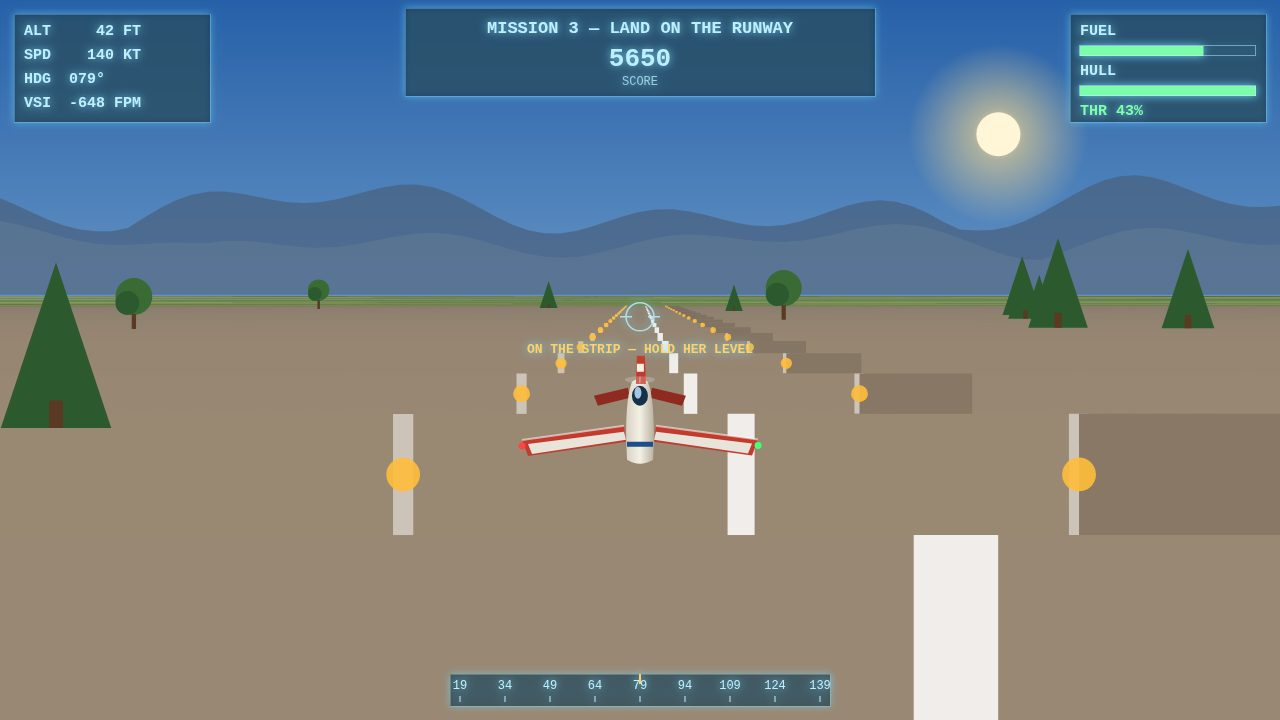
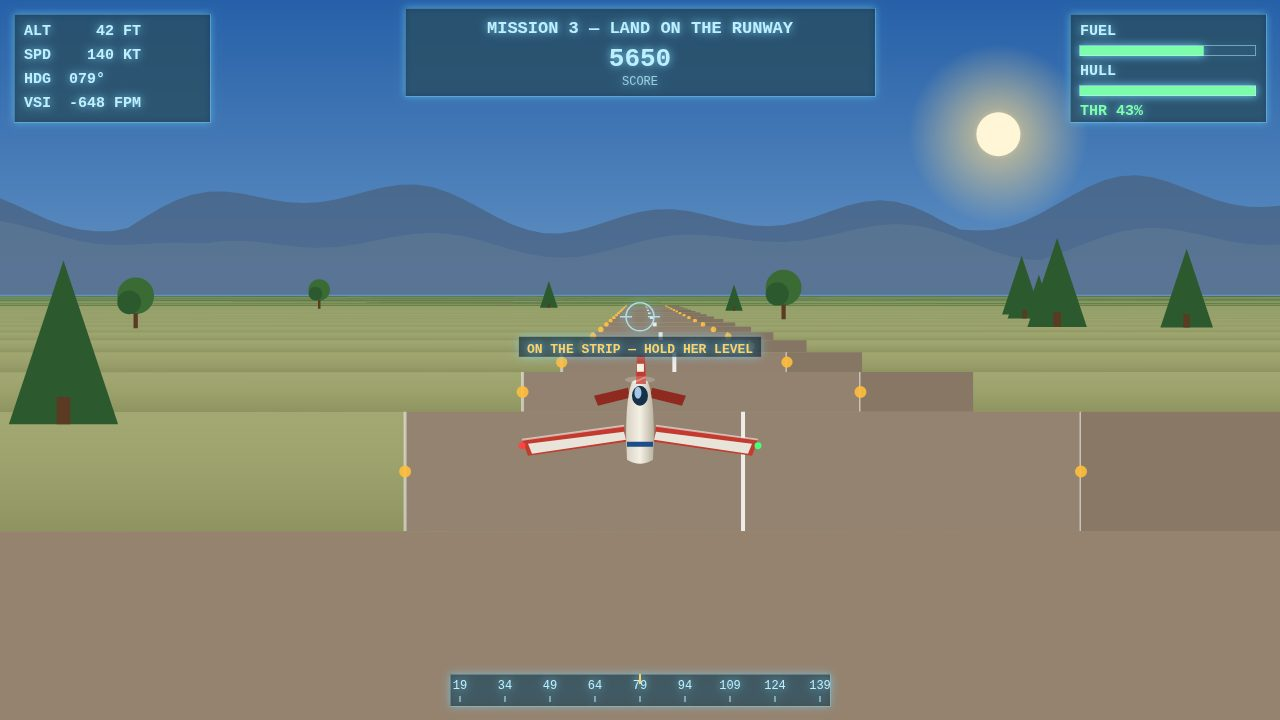
Sky Courier round 2: ground texture, runway rework, zone beams, LEGEND tier, fairer drop run
- Ground: per-band shading + plough furrows so fields read as terrain, not flat paint
- Runway: grass airfield with a proper asphalt strip, thin dashed centreline
  (widths clamped — the old unclamped lines became giant white blocks up close),
  thin edge lines, taxiway, amber edge lights
- Drop zones: vertical light beams so targets read from far away
- Clouds get shaded undersides; HUD target labels get a dark backing pill
- Drop run fairness: first zone 700 m past the rings (was 600) and zone
  steps +-80 m (was +-110) — the first zone's release window used to pass
  while the plane was still descending; staged scores now 6925-7051
  (was 5825-7051), every seed 5/5 zones
- New LEGEND OF THE SKIES rating at 6500+; ?shot=win stages the win screen
- Verified: 20 seeds deterministic, fairness (no-input/dive/climb crash, 0),
  5 page loads zero console errors, byte-identical main.ts outputs,
  dossier 457,526 bytes (< 1.5 MiB), no external URLs

diff --git a/game/src/render.js b/game/src/render.js
@@ -1,7 +1,7 @@
 // Sky Courier — everything the eye sees: pseudo-3D chase view over
 // rolling terrain, the aircraft, the rings and the runway, then the HUD
 // instruments and the screen overlays. All drawing is plain 2D canvas.
-import { SEG_LEN, VIEW_DIST, RUNWAY, MISSION_Z, RING_COUNT, RATING_ACE, RATING_SKILLED } from './config.js';
+import { SEG_LEN, VIEW_DIST, RUNWAY, MISSION_Z, RING_COUNT, RATING_LEGEND, RATING_ACE, RATING_SKILLED } from './config.js';
 
 export const SCREEN_TITLE = 0;
 export const SCREEN_BRIEF = 1;
@@ -109,7 +109,6 @@ export function createRenderer(canvas) {
   }
 
   function drawClouds(w, horizonY, camZ, camX, clouds, camDepth) {
-    ctx.fillStyle = 'rgba(255,255,255,0.85)';
     for (const c of clouds) {
       const d = c.z - camZ;
       if (d < 40 || d > VIEW_DIST) continue;
@@ -120,6 +119,13 @@ export function createRenderer(canvas) {
       // Keep the top strip clear so bright clouds never sit behind the
       // mission banner and wash out its text.
       if (sy - s * 0.32 < 110) continue;
+      // Shaded underside first, so the puff reads as a volume rather
+      // than a flat white sticker.
+      ctx.fillStyle = 'rgba(178,196,222,0.75)';
+      ctx.beginPath();
+      ctx.ellipse(sx, sy + s * 0.14, s * 0.95, s * 0.28, 0, 0, Math.PI * 2);
+      ctx.fill();
+      ctx.fillStyle = 'rgba(255,255,255,0.85)';
       ctx.beginPath();
       ctx.ellipse(sx, sy, s, s * 0.32, 0, 0, Math.PI * 2);
       ctx.ellipse(sx - s * 0.5, sy + s * 0.08, s * 0.6, s * 0.26, 0, 0, Math.PI * 2);
@@ -305,18 +311,26 @@ export function createRenderer(canvas) {
     const target = mission === 1 ? world.nextRing() : mission === 2 ? world.nextZone() : null;
     if (target) {
       const dist = Math.max(0, Math.round(target.z - state.z));
+      const label = mission === 1 ? `NEXT RING ${dist} m` : `NEXT ZONE ${dist} m`;
       ctx.textAlign = 'center';
       ctx.font = 'bold 13px ui-monospace, Menlo, monospace';
+      const tw = ctx.measureText(label).width;
+      ctx.fillStyle = 'rgba(8,18,30,0.6)';
+      ctx.fillRect(w / 2 - tw / 2 - 8, h * 0.44 + 20, tw + 16, 20);
       ctx.fillStyle = '#ffd166';
-      ctx.fillText(mission === 1 ? `NEXT RING ${dist} m` : `NEXT ZONE ${dist} m`, w / 2, h * 0.44 + 26);
+      ctx.fillText(label, w / 2, h * 0.44 + 26);
       ctx.textAlign = 'left';
     }
     if (mission === 3 && !state.landed) {
       const dist = Math.max(0, Math.round(RUNWAY.z0 - state.z));
+      const label3 = state.z < RUNWAY.z0 ? `RUNWAY ${dist} m — SLOW DOWN, FLARE GENTLY` : 'ON THE STRIP — HOLD HER LEVEL';
       ctx.textAlign = 'center';
       ctx.font = 'bold 13px ui-monospace, Menlo, monospace';
+      const tw3 = ctx.measureText(label3).width;
+      ctx.fillStyle = 'rgba(8,18,30,0.6)';
+      ctx.fillRect(w / 2 - tw3 / 2 - 8, h * 0.44 + 20, tw3 + 16, 20);
       ctx.fillStyle = '#ffd166';
-      ctx.fillText(state.z < RUNWAY.z0 ? `RUNWAY ${dist} m — SLOW DOWN, FLARE GENTLY` : 'ON THE STRIP — HOLD HER LEVEL', w / 2, h * 0.44 + 26);
+      ctx.fillText(label3, w / 2, h * 0.44 + 26);
       ctx.textAlign = 'left';
     }
     // Flash message.
@@ -390,9 +404,29 @@ export function createRenderer(canvas) {
         // A cross-road near the village, drawn as a full-width grey band.
         const crossRoad = !onRunway && z >= 5740 && z <= 5770;
         const field = FIELDS[Math.floor(hash(i + Math.floor(camZ / SEG_LEN)) * FIELDS.length)];
-        const col = onRunway ? [96, 96, 100] : crossRoad ? ROAD_COL : field;
+        // On the airfield the band is grass; the strip itself is drawn
+        // separately below, so the runway reads as a strip in a field
+        // instead of the whole world turning grey.
+        const col = onRunway ? [104, 140, 86] : crossRoad ? ROAD_COL : field;
         ctx.fillStyle = mix3(col, SKY_HORIZON, haze * 0.7);
         ctx.fillRect(-40, topY, w + 80, bandH);
+        // Shade each band top-to-bottom so the ground has depth instead
+        // of reading as flat stacked paint.
+        const bg = ctx.createLinearGradient(0, topY, 0, topY + bandH);
+        bg.addColorStop(0, 'rgba(255,255,255,0.05)');
+        bg.addColorStop(1, 'rgba(0,0,0,0.10)');
+        ctx.fillStyle = bg;
+        ctx.fillRect(-40, topY, w + 80, bandH);
+        // Plough furrows: short dashes across the field, so the ground
+        // reads as worked farmland instead of flat paint.
+        if (!onRunway && !crossRoad && bandH > 4) {
+          ctx.fillStyle = mix3([60, 100, 58], SKY_HORIZON, haze * 0.7);
+          for (let k = 0; k < 3; k += 1) {
+            const fx = hash(i * 31 + k * 17 + 2) * w;
+            const fl = w * (0.05 + hash(i * 13 + k * 7) * 0.09);
+            ctx.fillRect(fx, topY + bandH * (0.25 + k * 0.25), fl, Math.max(1, bandH * 0.12));
+          }
+        }
         // The river winds across the farmland (ends before the airfield).
         if (!onRunway && !crossRoad && z < 5600) {
           const rx = w / 2 + (camDepth * (world.riverX(z) - camX)) / d;
@@ -421,18 +455,29 @@ export function createRenderer(canvas) {
           ctx.fillStyle = mix3([52, 96, 52], SKY_HORIZON, haze * 0.7);
           ctx.fillRect(px, topY, w * 0.22, bandH);
         }
-        // Runway centreline dashes.
+        // The runway: asphalt strip on the grass, thin dashed centreline,
+        // edge lines, taxiway and amber edge lights. Line widths are
+        // clamped — the old unclamped widths turned into giant white
+        // blocks when the camera got low over the strip.
         if (onRunway) {
           const cx = w / 2 - (camDepth * camX) / d;
           const half = (camDepth * RUNWAY.halfWidth) / d;
-          ctx.strokeStyle = 'rgba(255,255,255,0.85)';
-          ctx.lineWidth = Math.max(1, half * 0.08);
-          ctx.beginPath();
-          ctx.moveTo(cx, y);
-          ctx.lineTo(cx, prevY);
-          ctx.stroke();
+          // Asphalt strip.
+          ctx.fillStyle = mix3([88, 88, 96], SKY_HORIZON, haze * 0.7);
+          ctx.fillRect(cx - half, topY, half * 2, bandH);
+          // Centreline dashes: 20 m of paint, 30 m of gap, in world space.
+          const zm = z - SEG_LEN / 2;
+          if ((((zm % 50) + 50) % 50) < 20) {
+            ctx.strokeStyle = 'rgba(255,255,255,0.85)';
+            ctx.lineWidth = Math.min(4, Math.max(1, half * 0.08));
+            ctx.beginPath();
+            ctx.moveTo(cx, y);
+            ctx.lineTo(cx, prevY);
+            ctx.stroke();
+          }
+          // Edge lines, thin.
           ctx.strokeStyle = 'rgba(255,255,255,0.5)';
-          ctx.lineWidth = Math.max(1, half * 0.06);
+          ctx.lineWidth = Math.min(3, Math.max(1, half * 0.06));
           ctx.beginPath();
           ctx.moveTo(cx - half, y);
           ctx.lineTo(cx - half, prevY);
@@ -444,7 +489,7 @@ export function createRenderer(canvas) {
           ctx.fillStyle = mix3([70, 70, 78], SKY_HORIZON, haze * 0.7);
           ctx.fillRect(cx + half, topY, taxiW, bandH);
           const midY = (y + prevY) / 2;
-          const lr = Math.max(1, half * 0.05);
+          const lr = Math.min(6, Math.max(1, half * 0.05));
           ctx.fillStyle = 'rgba(255,190,60,0.9)';
           ctx.beginPath();
           ctx.arc(cx - half, midY, lr, 0, Math.PI * 2);
@@ -499,6 +544,17 @@ export function createRenderer(canvas) {
         const gy = horizonY + (camDepth * (camAlt - world.groundAt(zn.z))) / d;
         const rx = (camDepth * zn.r) / d;
         const ry = Math.max(2, rx * 0.16);
+        // Unhit zones get a vertical light beam, so the target reads
+        // from far away instead of being a faint ellipse on the ground.
+        if (!zn.hit) {
+          const beamTop = Math.max(horizonY - 180, horizonY + (camDepth * (camAlt - (world.groundAt(zn.z) + 150))) / d);
+          const bw = Math.min(12, Math.max(2, rx * 0.18));
+          const bg2 = ctx.createLinearGradient(0, gy, 0, beamTop);
+          bg2.addColorStop(0, `rgba(255,190,60,${0.35 + 0.15 * Math.sin(state.time * 4)})`);
+          bg2.addColorStop(1, 'rgba(255,190,60,0)');
+          ctx.fillStyle = bg2;
+          ctx.fillRect(sx - bw / 2, beamTop, bw, gy - beamTop);
+        }
         ctx.fillStyle = zn.hit ? 'rgba(80,255,140,0.5)' : `rgba(255,190,60,${0.45 + 0.2 * Math.sin(state.time * 4)})`;
         ctx.beginPath();
         ctx.ellipse(sx, gy, rx, ry, 0, 0, Math.PI * 2);
@@ -722,7 +778,7 @@ export function createRenderer(canvas) {
         'Press Space for the next sortie',
       ], '#7dffa8');
     } else if (screen === SCREEN_WIN) {
-      const rating = state.score >= RATING_ACE ? 'ACE OF THE SKIES' : state.score >= RATING_SKILLED ? 'SKILLED PILOT' : 'ROOKIE WINGS';
+      const rating = state.score >= RATING_LEGEND ? 'LEGEND OF THE SKIES' : state.score >= RATING_ACE ? 'ACE OF THE SKIES' : state.score >= RATING_SKILLED ? 'SKILLED PILOT' : 'ROOKIE WINGS';
       overlay(w, h, [
         'DELIVERED — ALL MISSIONS COMPLETE',
         rating,

diff --git a/game/src/world.js b/game/src/world.js
@@ -48,12 +48,17 @@ function buildCourse(rand) {
   // first zone 130 m sideways would be unhittable before its release point.
   let zx = clamp(rings[RING_COUNT - 1].x + (rand() * 2 - 1) * 40, -150, 150);
   for (let i = 0; i < ZONE_COUNT; i += 1) {
-    if (i > 0) zx = clamp(zx + (rand() * 2 - 1) * 110, -150, 150);
-    // First zone sits 600 m past the ring run's end: the plane leaves the
-    // rings high and fast, and the release point for a drop sits ~250 m
+    // Steps stay inside what the plane can line up in the ~2.8 s between
+    // one zone's release point and the next (a 110 m step needed 40 m/s
+    // lateral for the whole window and routinely missed; 80 m is fair).
+    if (i > 0) zx = clamp(zx + (rand() * 2 - 1) * 80, -150, 150);
+    // First zone sits 700 m past the ring run's end: the plane leaves the
+    // rings high and fast, and the release point for a drop sits ~200 m
     // ahead of its zone — it needs that room to descend to drop altitude
-    // before the first release point, or the window passes before it.
-    zones.push({ z: 3700 + i * 420, x: zx, r: ZONE_RADIUS, hit: false, passed: false });
+    // and level off before the first release point. A shorter gap let the
+    // release window pass while the plane was still descending (predicted
+    // landing point stalls while descending, so the window never opens).
+    zones.push({ z: 3800 + i * 400, x: zx, r: ZONE_RADIUS, hit: false, passed: false });
   }
   return { rings, zones };
 }

diff --git a/game/src/shots.js b/game/src/shots.js
@@ -98,7 +98,7 @@ export function flyUntil(world, stop, maxSeconds = 240) {
 // Stage one named scene and return the screen to draw over it.
 export function stageShot(name, world) {
   world.reset();
-  if (name !== 'play' && name !== 'drop' && name !== 'land') {
+  if (name !== 'play' && name !== 'drop' && name !== 'land' && name !== 'win') {
     for (let i = 0; i < START_SECONDS / STEP; i += 1) world.step(STEP, null, true);
     return { screen: SCREEN_TITLE, best: 0 };
   }
@@ -119,6 +119,17 @@ export function stageShot(name, world) {
     const r = flyUntil(world, (s, e) => (e & EVENT_DROP) !== 0, 180);
     if ((r.events & EVENT_DROP) !== 0) {
       for (let i = 0; i < 45; i += 1) world.step(STEP, autopilot(world), false);
+    }
+    return { screen: SCREEN_PLAY, best: world.state.score };
+  }
+  // win: fly the whole course to a landing, then show the win panel
+  // (verifies the end-of-game rating; the score here is the staged run).
+  if (name === 'win') {
+    for (let attempt = 0; attempt < 3; attempt += 1) {
+      const r = flyUntil(world, (s, e) => (e & EVENT_LANDED) !== 0, 300);
+      if ((r.events & EVENT_LANDED) !== 0) return { screen: SCREEN_WIN, best: world.state.score };
+      if (world.state.over) world.retryMission(world.state.mission);
+      else break;
     }
     return { screen: SCREEN_PLAY, best: world.state.score };
   }

diff --git a/game/src/main.js b/game/src/main.js
@@ -3,7 +3,7 @@
 // there. Screens: title, mission brief, play, paused, mission failed,
 // mission complete, win.
 //
-// ?seed=N fixes the course. ?shot=start|play|drop|land (with &seed=N)
+// ?seed=N fixes the course. ?shot=start|play|drop|land|win (with &seed=N)
 // stages that scene instead of running the loop, paints it twice and sets
 // window.__shotReady for a screenshot.
 import { BEST_KEY, STEP, MISSIONS } from './config.js';

diff --git a/game/src/config.js b/game/src/config.js
@@ -55,6 +55,7 @@ export const SCORE_GREASED = 250; // touchdown gentle, centred, no damage
 export const LAND_GREASED_VS = 3.5; // m/s descent at touchdown
 
 // Ratings shown on the win screen.
+export const RATING_LEGEND = 6500;
 export const RATING_ACE = 5000;
 export const RATING_SKILLED = 3800;
 
